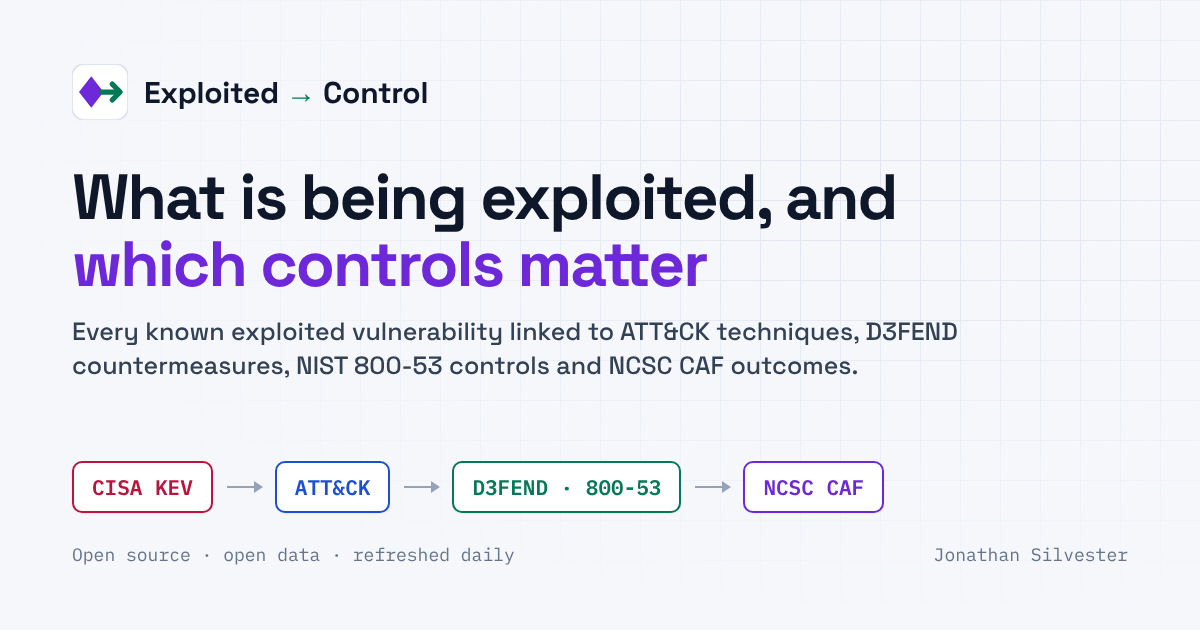
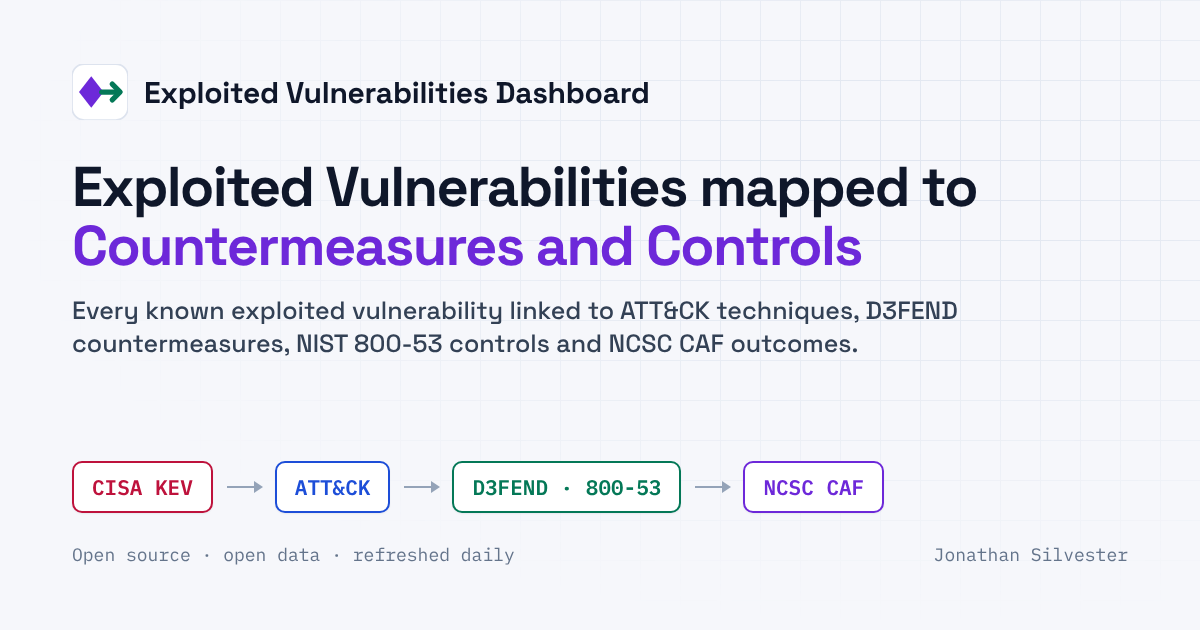
Rename to Exploited Vulnerabilities Dashboard

Changed region(s): [[0.0617, 0.2413, 0.8325, 0.6032], [0.2467, 0.1206, 0.555, 0.181]]

diff --git a/app/layout.jsx b/app/layout.jsx
@@ -7,7 +7,7 @@ import "@fontsource/ibm-plex-mono/600.css";
 import "./globals.css";
 
 const SITE_URL =
-  process.env.SITE_URL ??
+  process.env.SITE_URL ||
   (process.env.VERCEL_PROJECT_PRODUCTION_URL ? `https://${process.env.VERCEL_PROJECT_PRODUCTION_URL}` : "http://localhost:3000");
 const DESCRIPTION =
   "Every known exploited vulnerability (CISA KEV) linked to ATT&CK techniques, D3FEND countermeasures, NIST 800-53 controls and NCSC CAF outcomes. Open data, refreshed daily.";
@@ -15,21 +15,21 @@ const LINKEDIN = "https://www.linkedin.com/in/jonsilvester";
 
 export const metadata = {
   metadataBase: new URL(SITE_URL),
-  title: { default: "Exploited → Control", template: "%s · Exploited → Control" },
+  title: { default: "Exploited Vulnerabilities Dashboard", template: "%s · Exploited Vulnerabilities Dashboard" },
   description: DESCRIPTION,
-  applicationName: "Exploited → Control",
+  applicationName: "Exploited Vulnerabilities Dashboard",
   authors: [{ name: "Jonathan Silvester", url: LINKEDIN }],
   creator: "Jonathan Silvester",
   keywords: ["CISA KEV", "MITRE ATT&CK", "D3FEND", "NIST 800-53", "NCSC CAF", "EPSS", "vulnerability management", "linked open data"],
   openGraph: {
     type: "website",
-    siteName: "Exploited → Control",
-    title: "Exploited → Control",
+    siteName: "Exploited Vulnerabilities Dashboard",
+    title: "Exploited Vulnerabilities Dashboard",
     description: DESCRIPTION,
     url: "/",
     locale: "en_GB",
   },
-  twitter: { card: "summary_large_image", title: "Exploited → Control", description: DESCRIPTION },
+  twitter: { card: "summary_large_image", title: "Exploited Vulnerabilities Dashboard", description: DESCRIPTION },
 };
 
 export const viewport = {

diff --git a/docs/brand/og.html b/docs/brand/og.html
@@ -14,7 +14,7 @@ body{width:1200px;height:630px;background:#f6f7fb;color:#0f172a;font-family:SG;o
 .brand{display:flex;align-items:center;gap:16px;font-weight:700;font-size:30px;letter-spacing:-.01em}
 .brand svg{width:56px;height:56px}
 .arrow{color:#047857}
-h1{font-size:64px;line-height:1.04;font-weight:700;letter-spacing:-.03em;margin-top:44px;max-width:980px}
+h1{font-size:56px;line-height:1.05;font-weight:700;letter-spacing:-.03em;margin-top:38px;max-width:1060px}
 h1 em{font-style:normal;color:#6d28d9}
 .sub{font-size:25px;color:#334155;margin-top:18px;max-width:900px;font-weight:500;line-height:1.35}
 .chain{display:flex;align-items:center;gap:14px;margin-top:auto}
@@ -28,9 +28,9 @@ h1 em{font-style:normal;color:#6d28d9}
   <div class="brand">
     <svg viewBox="0 0 64 64"><rect width="64" height="64" rx="14" fill="#ffffff" stroke="#dde3ee" stroke-width="2"/><path d="M22 14 L36 32 L22 50 L8 32 Z" fill="#6d28d9"/>
       <path d="M34 32 H54" stroke="#047857" stroke-width="6" stroke-linecap="round"/><path d="M46 23 L55 32 L46 41" fill="none" stroke="#047857" stroke-width="6" stroke-linecap="round" stroke-linejoin="round"/></svg>
-    <span>Exploited <span class="arrow">→</span> Control</span>
+    <span>Exploited Vulnerabilities Dashboard</span>
   </div>
-  <h1>What is being exploited, and <em>which controls matter</em></h1>
+  <h1>Exploited Vulnerabilities mapped to <em>Countermeasures and Controls</em></h1>
   <p class="sub">Every known exploited vulnerability linked to ATT&amp;CK techniques, D3FEND countermeasures, NIST 800-53 controls and NCSC CAF outcomes.</p>
   <div class="chain">
     <span class="node" style="--c:#be123c">CISA KEV</span><span class="link"></span>

diff --git a/app/embed/page.jsx b/app/embed/page.jsx
@@ -5,7 +5,7 @@ import { Kpi, BarList } from "@/components/ui";
 
 /**
  * Compact widget for embedding in another dashboard with an iframe:
- *   <iframe src="https://YOUR-SITE/embed/" width="100%" height="520" title="Exploited to Control"></iframe>
+ *   <iframe src="https://YOUR-SITE/embed/" width="100%" height="520" title="Exploited Vulnerabilities Dashboard"></iframe>
  * Add ?theme=dark to match a dark host dashboard (light is the default).
  * Allowed parent sites are set in vercel.json (frame-ancestors on /embed only).
  */
@@ -36,7 +36,7 @@ export default function Embed() {
         <BarList rows={v.caf} label="vulnerabilities" tone="amethyst" max={8} />
       </div>
       <p className="note" style={{ marginTop: 8 }}>
-        Source: CISA KEV, MITRE CTID, ATT&CK, D3FEND. <a href={site} target="_blank" rel="noopener noreferrer">Open Exploited to Control →</a> · by{" "}
+        Source: CISA KEV, MITRE CTID, ATT&CK, D3FEND. <a href={site} target="_blank" rel="noopener noreferrer">Open the Exploited Vulnerabilities Dashboard →</a> · by{" "}
         <a href="https://www.linkedin.com/in/jonsilvester" target="_blank" rel="noopener noreferrer">Jonathan Silvester</a>
       </p>
     </div>

diff --git a/app/page.jsx b/app/page.jsx
@@ -41,7 +41,7 @@ export default function Overview() {
       <Nav />
       <main className="wrap">
         <div className="eyebrow">Known exploited → defended</div>
-        <h1>What is being exploited, and which controls matter</h1>
+        <h1>Exploited Vulnerabilities mapped to Countermeasures and Controls</h1>
         <p className="lede">
           Every vulnerability in the CISA Known Exploited Vulnerabilities catalogue, linked to the ATT&CK techniques it enables, the D3FEND
           countermeasures and NIST 800-53 controls that address them, and the NCSC CAF outcomes they sit under.

diff --git a/components/ui.jsx b/components/ui.jsx
@@ -23,7 +23,7 @@ export function Nav() {
             <path d="M46 23 L55 32 L46 41" fill="none" stroke="var(--emerald)" strokeWidth="6" strokeLinecap="round" strokeLinejoin="round" />
           </svg>
         </span>
-        Exploited<span className="arrow">→</span>Control
+        Exploited Vulnerabilities Dashboard
       </Link>
       <nav aria-label="Main">
         {items.map(([href, label]) => (

diff --git a/README.md b/README.md
@@ -1,6 +1,6 @@
-# Exploited → Control
+# Exploited Vulnerabilities Dashboard
 
-**What is being exploited, and which controls matter.**
+**Exploited vulnerabilities mapped to countermeasures and controls.**
 
 Exploited → Control takes every vulnerability in the CISA Known Exploited Vulnerabilities (KEV) catalogue and links it to:
 
